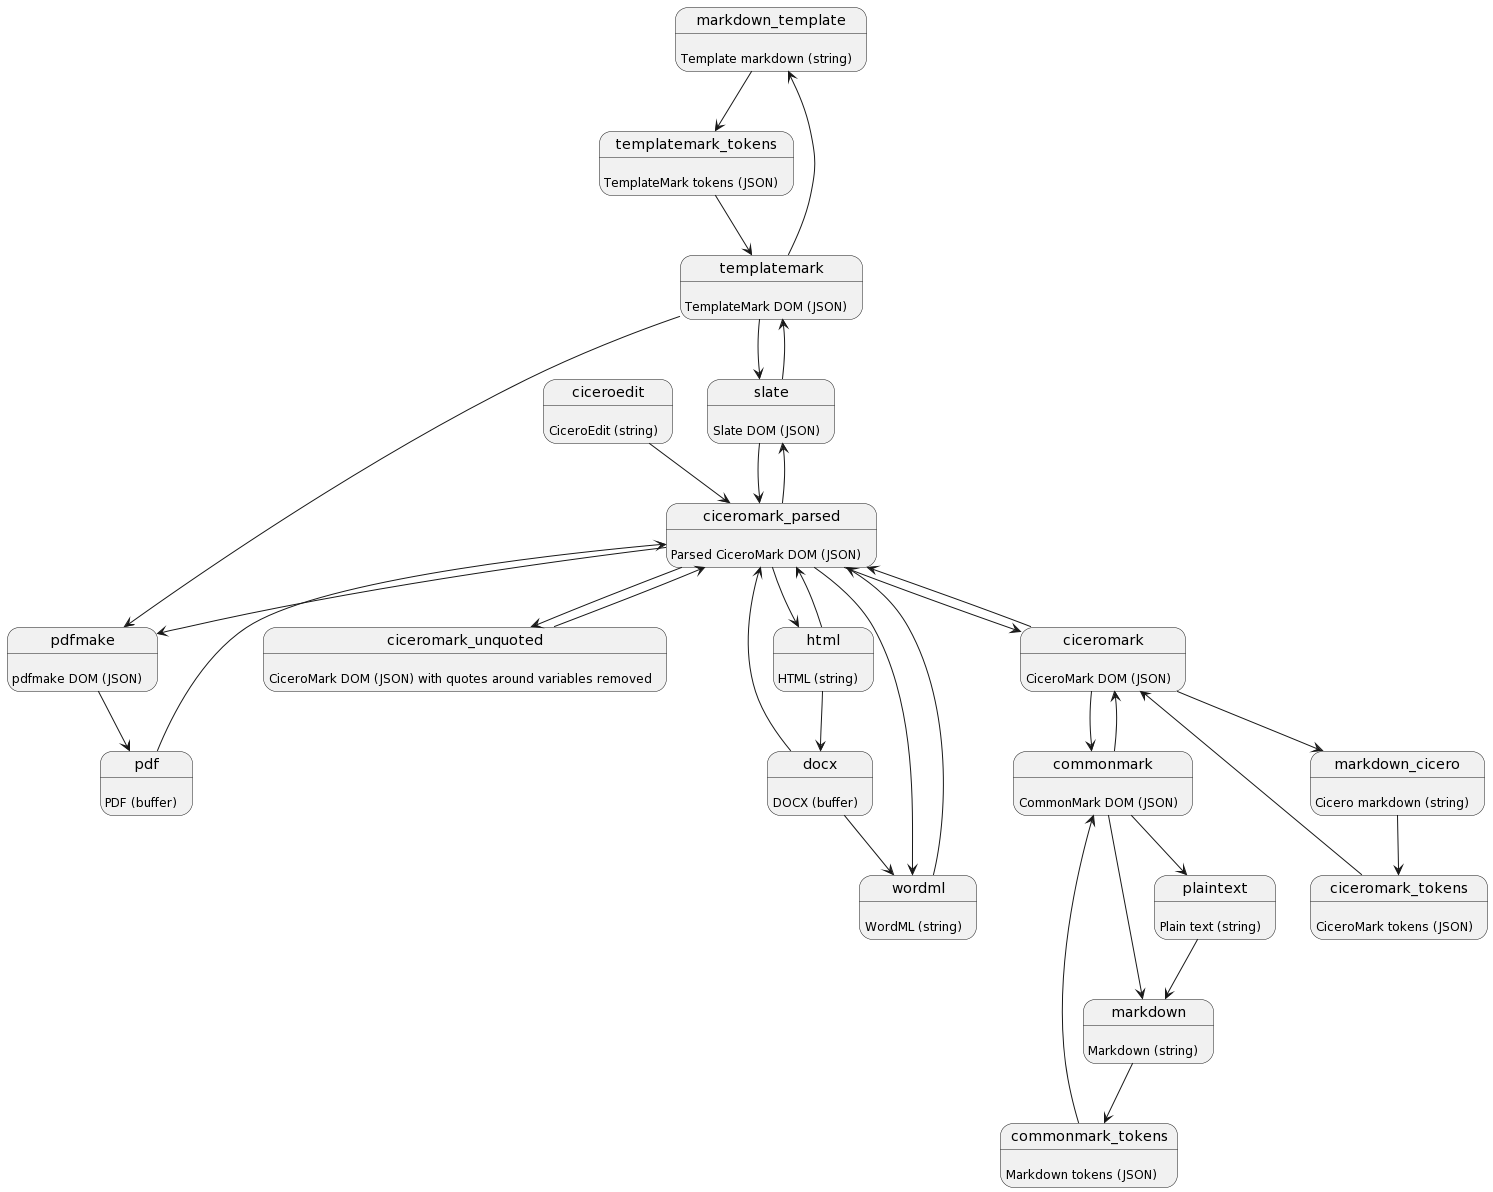
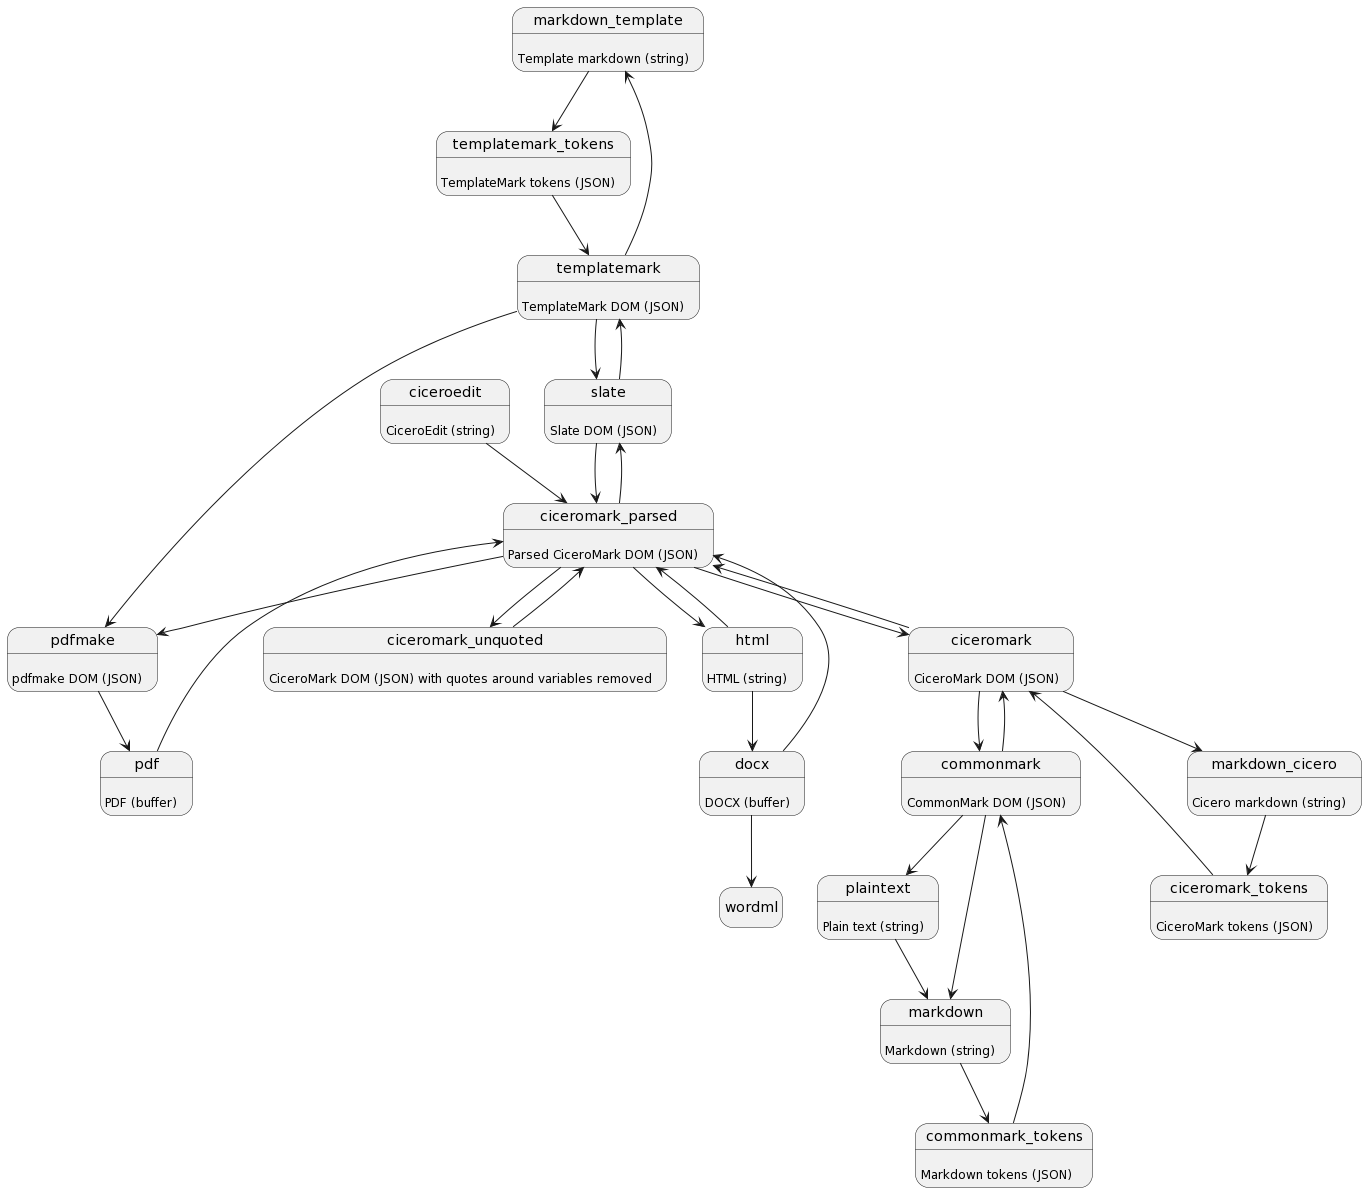
fix(transforms)

diff --git a/packages/markdown-transform/lib/builtinTransforms.js b/packages/markdown-transform/lib/builtinTransforms.js
@@ -145,10 +145,6 @@ const transformationGraph = {
     },
     pdfmake: (input, parameters, options) => {
       return PdfTransformer.ciceroMarkToPdfMake(input, options);
-    },
-    wordml: (input, parameters, options) => {
-      const t = new DocxTransformer();
-      return t.toWordML(input);
     }
   },
   plaintext: {
@@ -197,14 +193,6 @@ const transformationGraph = {
     wordml: async (input, parameters, options) => {
       const zip = await JsZip.loadAsync(input);
       return zip.file('word/document.xml').async('string');
-    }
-  },
-  wordml: {
-    docs: 'WordML (string)',
-    fileFormat: 'utf8',
-    ciceromark_parsed: async (input, parameters, options) => {
-      const t = new DocxTransformer();
-      return t.toCiceroMark(input, options);
     }
   },
   html: {

diff --git a/packages/markdown-transform/src/builtinTransforms.js b/packages/markdown-transform/src/builtinTransforms.js
@@ -145,10 +145,6 @@ const transformationGraph = {
         },
         pdfmake: (input, parameters, options) => {
             return PdfTransformer.ciceroMarkToPdfMake(input, options);
-        },
-        wordml: (input, parameters, options) => {
-            const t = new DocxTransformer();
-            return t.toWordML(input);
         }
     },
     plaintext: {
